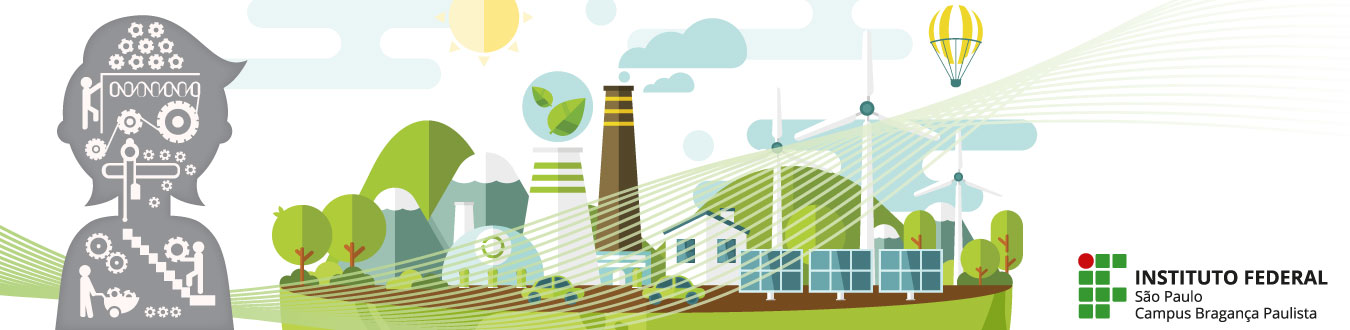
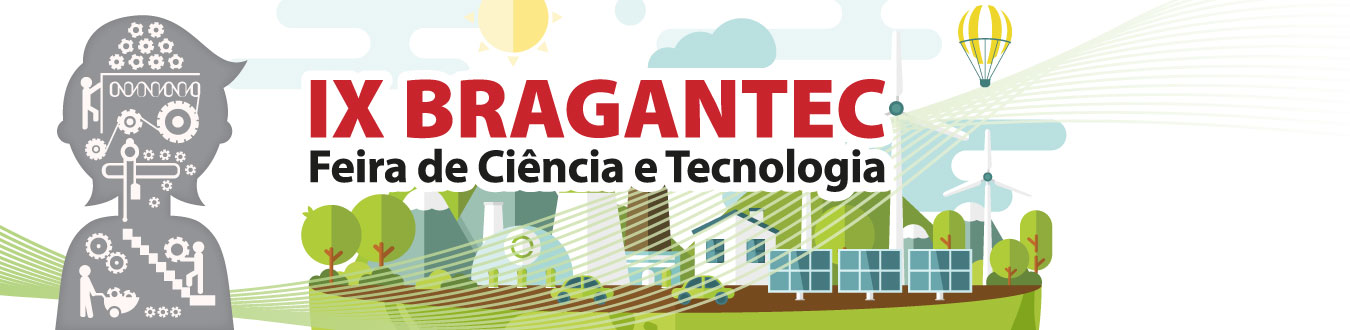
Mudanças no rodapé

Changed region(s): [[0.1867, 0.0303, 0.9956, 1.0], [0.3111, 0.0, 0.4978, 0.1818], [0.6844, 0.0, 0.7467, 0.2727]]

diff --git a/wp-content/themes/Bragantec/style.css b/wp-content/themes/Bragantec/style.css
@@ -72,23 +72,12 @@ header div div{
   border: solid  rgba(255, 255, 255, 0.2) 2px;
   padding-bottom: 10px;
 }
-.titulo{
-  font-size: 65px;
-  color: rgb(197,26,27);
-  font-family: myriadBold;
-  text-shadow: gray 0.07em 0.08em 0.2em;
-}
+
 .subtituloDia{
   font-size: 27px;
   color: rgb(197,26,27);
   font-family: myriadBold;
   padding-top: 5px;
-}
-.subtitulo{
-  font-size: 25px;
-  color:  black;
-  font-family: myriadBold;
-  text-shadow: gray 0.07em 0.08em 0.2em;
 }
 
 /* setas no header  */
@@ -158,9 +147,7 @@ header div div{
 #queBragantec{
   margin-bottom: 50px;
 }
-#queBragantec p {
-  margin-left: 50px;
-}
+
 /* footer */
 footer{
   padding-right: 0 !important;
@@ -182,33 +169,24 @@ footer div div{
 .tituloMobile{
   display: none;
 }
-.img{
-  max-width:80px;
-}
 .contato{
-  padding-top:30px;
+  display: flex;
 }
-.braga{
-  padding-top:40px;
+.contato div {
+  flex:1;
 }
-.contatoDivBraga{
-  padding-left:60px;
-  padding-top:5px;
-  background-image:url(img/);
-  background-repeat:no-repeat;
+.link{
+  margin-top: 10px;
 }
-.contatoDivIf{
-  padding-left:70px;
-  background-image:url(img/if.jpg);
-  background-repeat:no-repeat;
-}
-.contatoIfMeninas{
-  padding-left:120px;
-  background-image:url(img/ifMeninasLogo.png);
-  background-repeat:no-repeat;
-  text-align: center;
+a{
+  text-decoration: none !important;
+  color: white !important;
 }
 
+
+.meninasText{
+  margin-top: 10px;
+}
 .desenvolvedoras{
   width:50%;
 }
@@ -218,10 +196,6 @@ footer div div{
 }
 .desenvolvedoras p {
   padding-right:0px;
-}
-.contatoDesenv, .apoios{
-    border-bottom: lightgray solid 0.5px;
-    padding-left: 45px;
 }
 
 .perfil:hover img, .desenvolvedoras:hover img{
@@ -240,7 +214,16 @@ table td{
 table tr{
   text-align: left;
 }
-
+/* Desktop */
+@media (min-width: 500px){
+  .footerPadding{
+    padding-left: 150px;
+  }
+  #queBragantec p {
+    margin-left: 50px;
+  }
+}
+/* mobile */
 @media (max-width: 500px){
   .tituloFooter{
     display: none;

diff --git a/wp-content/themes/Bragantec/footer.php b/wp-content/themes/Bragantec/footer.php
@@ -5,71 +5,83 @@
             <h2>Bragantec</h2>
         </div>
 
-        <div class="col-md-12 row tituloFooter">
-          <h2 class="col-md-8 text-center">Contato:</h2>
-          <h2 class="col-md-4text-center">O site foi desenvolvido por:</h2>
+        <div class="col-md-6 row footerPadding">
+          <h2 class="col-md-12">Realização: </h2>
+          <br>
+          <div class="col-md-12 text-center">
+            <a href="https://bra.ifsp.edu.br/" target="_blank">
+              <img src="<?php echo get_stylesheet_directory_uri()?>/img/IF_logo.png" alt="Site do IFSP - Bragança Paulista - SP" width="100">
+            </a>
+          </div>
         </div>
-
-        <div class="row col-md-12 contatoDesenv">
-
-          <div class="col-md-4 row contato braga">
-            Contato Bragantec:
-            <div class="contatoDivBraga">
-              Facebook: <a href="https://www.facebook.com/bragantec/" target="_blank"> facebook.com/bragantec</a><br>
-              E-mail: <a href="mailto:bragantec@ifsp.edu.br" target="_blank">bragantec@ifsp.edu.br</a>
-            </div>
-          </div>
-
-          <div class="col-md-4 row contato">
-            Contato IFSP Bragança:
-            <div class="contatoDivIf">
-              Telefone: <a href="tel:1140347800" target="_blank">(11) 4034-7800</a><br>
-              E-mail: <a href="mailto:braganca@ifsp.edu.br" target="_blank">braganca@ifsp.edu.br</a><br>
-              Facebook: <a href="https://www.facebook.com/ifsp.braganca.paulista/?__tn__=%2CdkC-R-R&eid=ARApuT4n3HgL3O4V7QvZFMbotO2kJieXSOUENu7hd0653M4odQI7eTkEohKNTeiceAoNtJj6LXapV5G0&hc_ref=ARQYYPJ6m2C8EmJmuWfIhR4SXYnNzyH4C8fcJjOpSwI9oK1YAyGsOeL16HTPD79Sd08&fref=gs&dti=441352152644120&hc_location=group_dialog" target="_blank">@ifsp.braganca.paulista</a>
-            </div>
-          </div>
-
-          <div class="col-md-4 row text-center">
-
-            <h2 class="col-md-12 text-center tituloMobile">O site foi desenvolvido por:</h2>
-            <div class="col-md-6 col-xs-6 desenvolvedoras">
-              <a href="https://www.linkedin.com/in/beatriz-miranda-ferreira/" target="_blank">
-                <div class="col-md-12 perfil" data-toggle="tooltip" data-placement="bottom" title="Beatriz Miranda - Programadora">
-                    <img src="<?php echo get_stylesheet_directory_uri()?>/img/beatriz.jpg" alt="Beatriz Miranda">
-                </div>
-              </a>
-            </div>
-
-            <div class="col-md-6  col-xs-6 desenvolvedoras">
-              <a href="https://www.linkedin.com/in/laura-a-de-almeida-chaile/" target="_blank">
-                <div class="col-md-12 perfil"  data-toggle="tooltip" data-placement="bottom" title="Laura Chaile - Designer">
-                    <img src="<?php echo get_stylesheet_directory_uri()?>/img/laura.jpg" alt="Laura Chaile">
-                </div>
-              </a>
-            </div>
-
-          </div>
-
-        </div>
-
-        <div class="row col-md-12 apoios">
-          <div class="col-md-6 row contato">
-            <div class="contatoIfMeninas">
-              <p>Esse site foi desenvolvido em parceria com o IFMeninas, grupo que apoia meninas na computação. </p>
-              <a href="bra.ifsp.edu.br/ifmeninas/" target="_blank">bra.ifsp.edu.br/ifmeninas/</a>
-            </div>
-          </div>
-          <div class="col-md-6 row ">
-            <p class="col-md-12">Bragantec é apoiada por: </p>
-            <br>
-            <div class="col-md-12 text-center">
+        <div class="col-md-6 row ">
+          <h2 class="col-md-12">Apoiada por: </h2>
+          <br>
+          <div class="col-md-12 text-center">
+            <a href="http://www.cnpq.br/" target="_blank">
               <img class="cnpq" src="<?php echo get_stylesheet_directory_uri()?>/img/cnpq.png" alt="logo cnpq">
+            </a>
+          </div>
+        </div>
+
+
+        <div class="col-md-12 fundoVer contato row">
+
+          <div class="text-center col-xs-6" style="margin-top: 15px">
+            Fale Conosco:
+          </div>
+          <div class="text-center contato col-xs-6">
+            <div class="text-left text-xs-center" style="flex:0.1">
+              <img  src="<?php echo get_stylesheet_directory_uri()?>/img/email.svg" alt="icone do email" width="45">
+            </div>
+            <div style="" class="text-left link"> <a href="mailto:bragantec@ifsp.edu.br" target="_blank">bragantec@ifsp.edu.br</a> </div>
+          </div>
+          <div class="text-center contato col-xs-12">
+            <div class="text-left text-xs-right" style="flex:0.4; margin-top:5px">Siga Nos:</div>
+            <div class="text-md-left text-xs-center">
+              <a href="https://www.facebook.com/bragantec/" target="_blank">
+                <img src="<?php echo get_stylesheet_directory_uri()?>/img/facebook.svg" alt="Link facebook" width="45">
+              </a>
+              <a href="https://www.instagram.com/bragantec/?hl=pt-br" target="_blank">
+                <img src="<?php echo get_stylesheet_directory_uri()?>/img/insta.svg" alt="link para instagram" width="45">
+              </a>
+              <a href="https://www.youtube.com/channel/UC9ZVkgkfnuiXCQc9Sf_lfhQ/featured" target="_blank">
+                <img src="<?php echo get_stylesheet_directory_uri()?>/img/yt.svg" alt="link para youtube" width="45">
+              </a>
             </div>
           </div>
         </div>
 
-        <div class="fundoVer text-right col-md-12">
-          2019
+        <div class="col-md-6 row contato footerPadding">
+          <h2 class="col-md-12 text-left">IF (Meninas) {nas exatas}:</h2>
+          <div class="col-md-3">
+            <a href="http://bra.ifsp.edu.br/ifmeninas/" target="_blank">
+              <img src="<?php echo get_stylesheet_directory_uri()?>/img/ifMeninasLogo.png" alt="Logo do if Meninas">
+            </a>
+          </div>
+          <div class="col-md-9 meninasText">
+            <p>Esse site foi desenvolvido em parceria com o IFMeninas, grupo que apoia meninas na computação. </p>
+          </div>
+        </div>
+
+        <div class="col-md-6 row text-center">
+          <h2 class="col-md-12 text-left">Desenvolvedoras:</h2>
+          <div class="col-md-6 col-xs-6 desenvolvedoras text-right">
+            <a href="https://www.linkedin.com/in/beatriz-miranda-ferreira/" target="_blank">
+              <div class="col-md-12 perfil" >
+                  <img src="<?php echo get_stylesheet_directory_uri()?>/img/beatriz.jpg" alt="Beatriz Miranda" data-toggle="tooltip" data-placement="bottom" title="Beatriz Miranda - Programadora">
+              </div>
+            </a>
+          </div>
+
+          <div class="col-md-6  col-xs-6 desenvolvedoras">
+            <a href="https://www.linkedin.com/in/laura-a-de-almeida-chaile/" target="_blank">
+              <div class="col-md-12 perfil"  data-toggle="tooltip" data-placement="bottom" title="Laura Chaile - Designer">
+                  <img src="<?php echo get_stylesheet_directory_uri()?>/img/laura.jpg" alt="Laura Chaile">
+              </div>
+            </a>
+          </div>
+
         </div>
       </div>
 

diff --git a/wp-content/themes/Bragantec/header.php b/wp-content/themes/Bragantec/header.php
@@ -50,21 +50,15 @@
 					<li class="nav-item ancoraBragantec" title="Como Apoiar">
 						 <a class="nav-link" href="#queBragantec">O que é Bragantec?</a>
 					</li>
-					<li class="nav-item" data-toggle="tooltip" data-placement="bottom" title="Em breve mais informações">
+					<!-- <li class="nav-item" data-toggle="tooltip" data-placement="bottom" title="Em breve mais informações">
 						<a class="nav-link disabled" href="#">Como Participar</a>
-					</li>
+					</li> -->
 		    </ul>
 		  </div>
 		</nav>
 
 		<header class="container-fluid">
 			<div class="row">
-				<div class=" offset-md-2 col-md-5 info mobile-hide">
-					<span class="titulo">IX Bragantec</span><br>
-					<br>
-					<span class="subtitulo">FEIRA DE CIÊNCIA E TECNOLOGIA DP IFSP 2019</span>
-					<br>
-				</div>
 				<div class=" setaLaranja col-md-3 col-xs-3 ">
 					Podem participar alunos do 8° e 9° ano e alunos do médio/técnico
 					até 21 anos!
